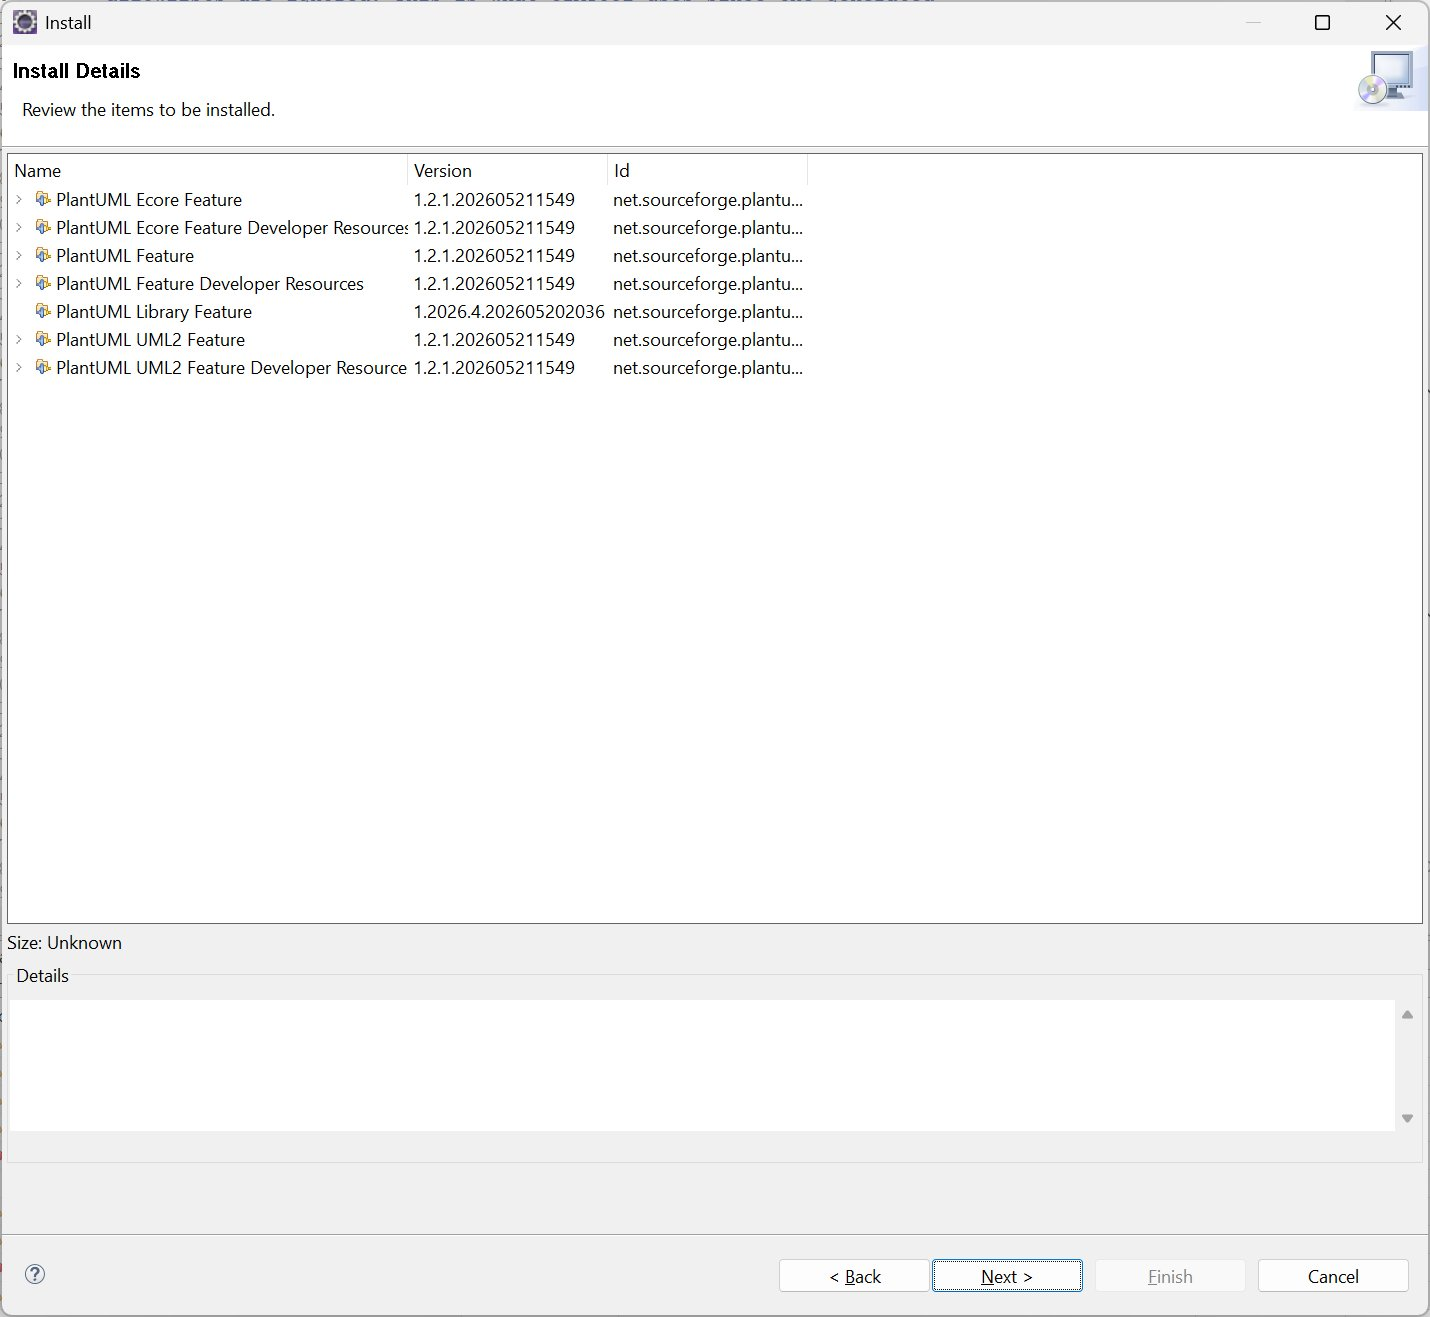
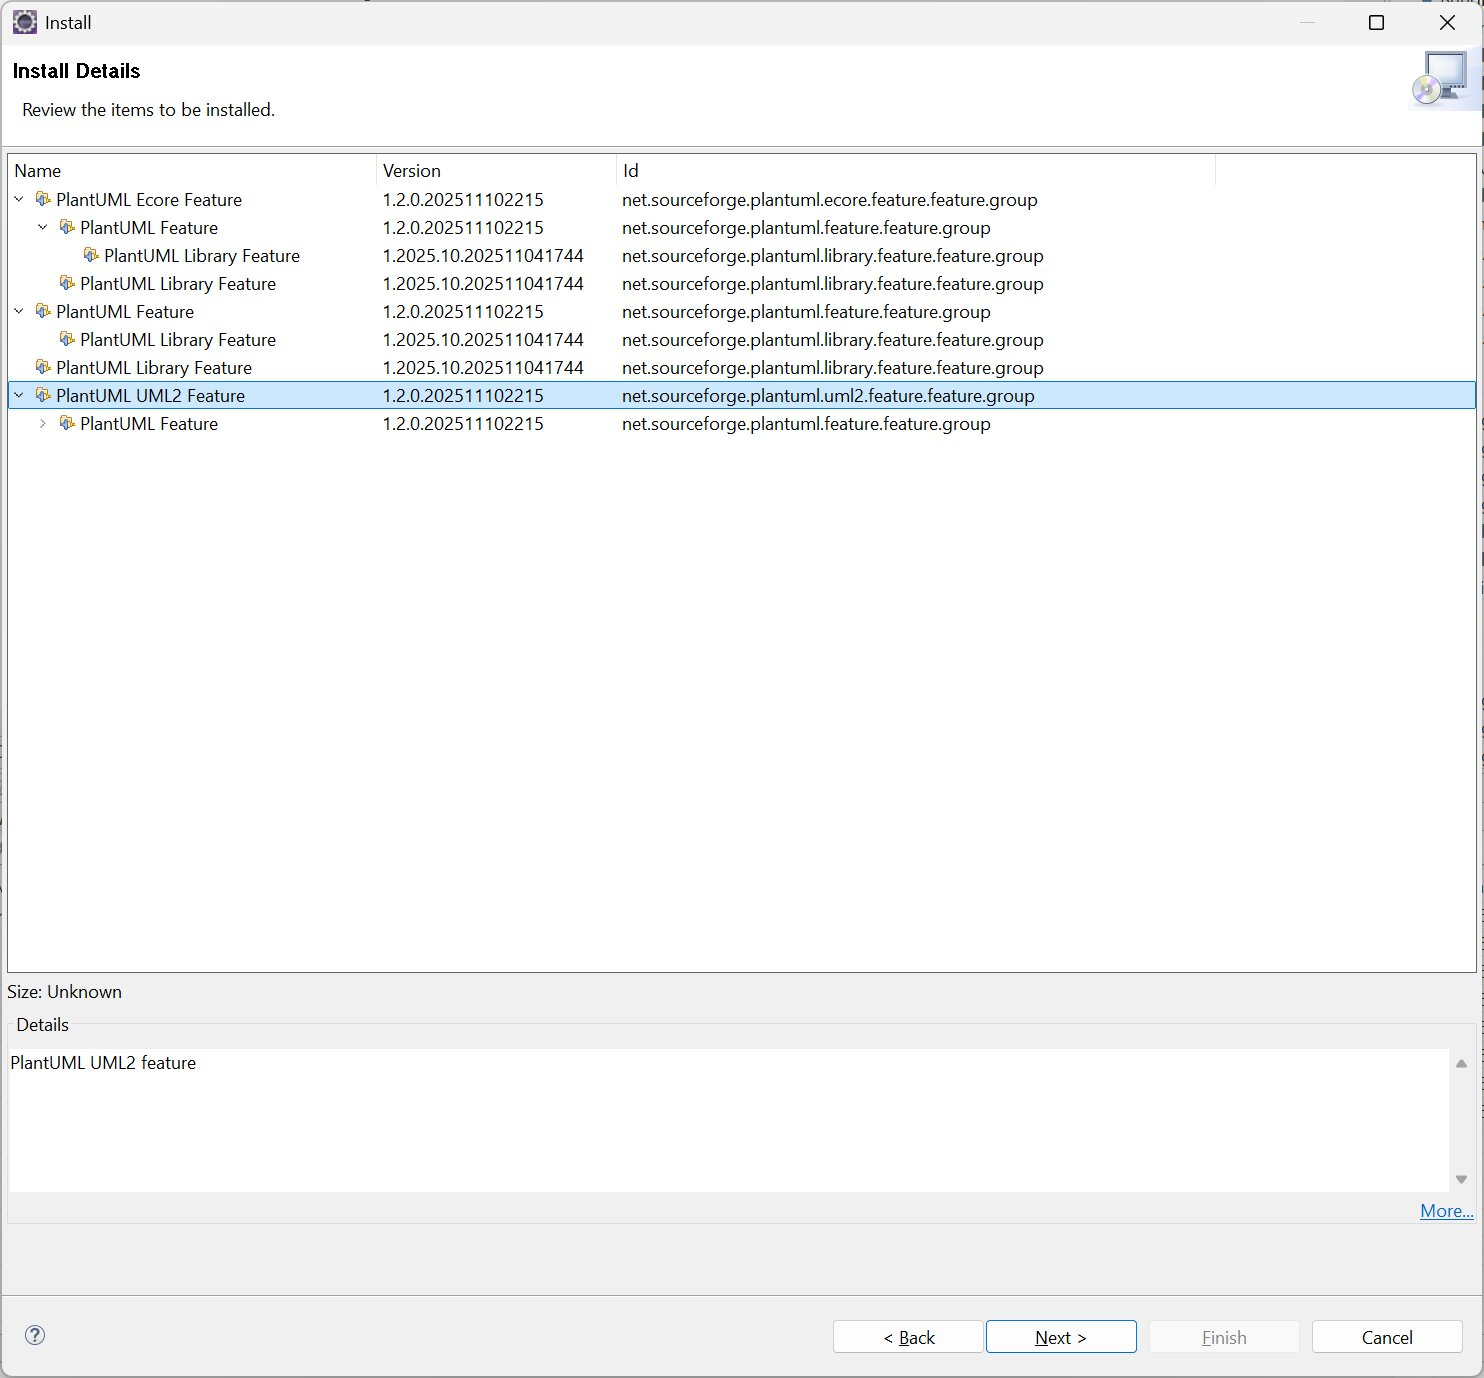
Final dev-docs updates

diff --git a/dev-docs/Includes/DevEnvSetup/DevEnvSetup-README.md b/dev-docs/Includes/DevEnvSetup/DevEnvSetup-README.md
@@ -118,12 +118,11 @@ Using `Add...`, add the update site `https://plantuml.github.io/plantuml-eclipse
 shown. Then select the features below and click `Next`:
 
 - From *PlantUML Eclipse support*: the *Ecore*, *Feature*, and *UML2* features, verified
-  at version `1.2.1.202605211549`.
+  at version `1.2.0.202511102215`.
 - From *PlantUML Library*: the *PlantUML Library Feature*, verified at version
-  `1.2026.4.202605202036`.
-- From *PlantUML Eclipse support sources*: the matching *Developer Resources* features at
-  `1.2.1.202605211549` (these source bundles are optional, but are included here to match
-  the verified configuration).
+  `1.2025.10.202511041744`.
+- From *PlantUML Eclipse support sources*: the *Developer Resources* (source) bundles are
+  optional and are left unselected in this configuration.
 
 ![Selecting the PlantUML features](readme-images/eclipse-install-plantuml_Step1.png)
 
@@ -131,11 +130,11 @@ shown. Then select the features below and click `Next`:
 > latest versions of available software"* exposes every published build, so a specific,
 > known-good version can be selected and pinned.
 
-On the *Install Details* page, confirm that exactly **one** *PlantUML Library Feature* is
-listed and that no *"Your original request has been modified"* warning appears. If a
+On the *Install Details* page, confirm that the *PlantUML Library Feature* resolves to a
+**single version** and that no *"Your original request has been modified"* warning appears. If a
 second Library version is added or the warning is shown, return with `< Back` and adjust
 the selection until a single, conflict-free set resolves. The version pairing above
-(*Eclipse support* `1.2.1.202605211549` with *Library* `1.2026.4.202605202036`) resolves
+(*Eclipse support* `1.2.0.202511102215` with *Library* `1.2025.10.202511041744`) resolves
 cleanly.
 
 ![PlantUML Install Details: a single, conflict-free Library version](readme-images/eclipse-install-plantuml_Step2.png)
@@ -195,8 +194,8 @@ Complete the installation by accepting the license and restarting, as described 
 > 2023-06 / 4.28 platform):
 >
 > - *Asciidoctor Editor* — `3.1.2`
-> - *PlantUML Eclipse support* — `1.2.1.202605211549`
-> - *PlantUML Library* — `1.2026.4.202605202036`
+> - *PlantUML Eclipse support* — `1.2.0.202511102215`
+> - *PlantUML Library* — `1.2025.10.202511041744`
 >
 > Both update sites publish the most recent release of each plugin, and a later install
 > may retrieve a newer version that has not been verified against this platform. The
@@ -213,14 +212,31 @@ Complete the installation by accepting the license and restarting, as described 
 
 The final step is to clone a development branch of the CIMTool codebase from the
 [CIMTool GitHub repository](https://github.com/cimug-org/CIMTool) and import its
-projects into the workspace. Two approaches are available:
+projects into the workspace. Two approaches are available, and they differ in how the
+projects are brought into Eclipse:
 
-- An external Git client — such as [GitHub Desktop](https://desktop.github.com/),
+- **External Git client** — such as [GitHub Desktop](https://desktop.github.com/),
   [TortoiseGit](https://tortoisegit.org/), or [Git for Windows](https://gitforwindows.org/)
   (see the [full list](https://git-scm.com/downloads/guis)) — used to clone the
-  repository to a local directory, from which the projects are then imported into
-  Eclipse.
+  repository to a local directory *outside* Eclipse. The cloned projects are then brought
+  in with Eclipse's *Existing Projects into Workspace* import (described below).
 
-- The Git tooling bundled with Eclipse (EGit), used to clone and import the CIMTool
-  projects directly from the repository. It is configured from the Eclipse
-  preferences dialog.
+- **Eclipse's bundled Git tooling (EGit)** — used to clone *and* import the CIMTool
+  projects directly from the repository in a single operation, via `File` > `Import...` >
+  `Git` > `Projects from Git`.
+
+### Importing Existing Projects from an External Clone
+
+When the repository has been cloned with an external Git client, the projects are imported
+as **existing projects from the file system** — not as Git-managed projects retrieved
+through Eclipse. Choose `File` > `Import...` > `General` > `Existing Projects into
+Workspace`, set *Select root directory* to the clone location (for example,
+`D:\CIMug-GIT-REPOS\release-2.3.0`), and let Eclipse discover the projects it contains.
+Leave *Copy projects into workspace* unchecked so the imported projects remain in the
+cloned Git working tree, where the external client continues to manage them.
+
+![Importing the CIMTool projects as existing projects from the file system](readme-images/import-existing-projects.png)
+
+> **Note:** The checked projects in the screenshot are the **core** projects required to
+> build and deploy CIMTool. The remaining, unchecked projects may optionally be imported,
+> but they are **dormant** — not required to build or deploy the product.